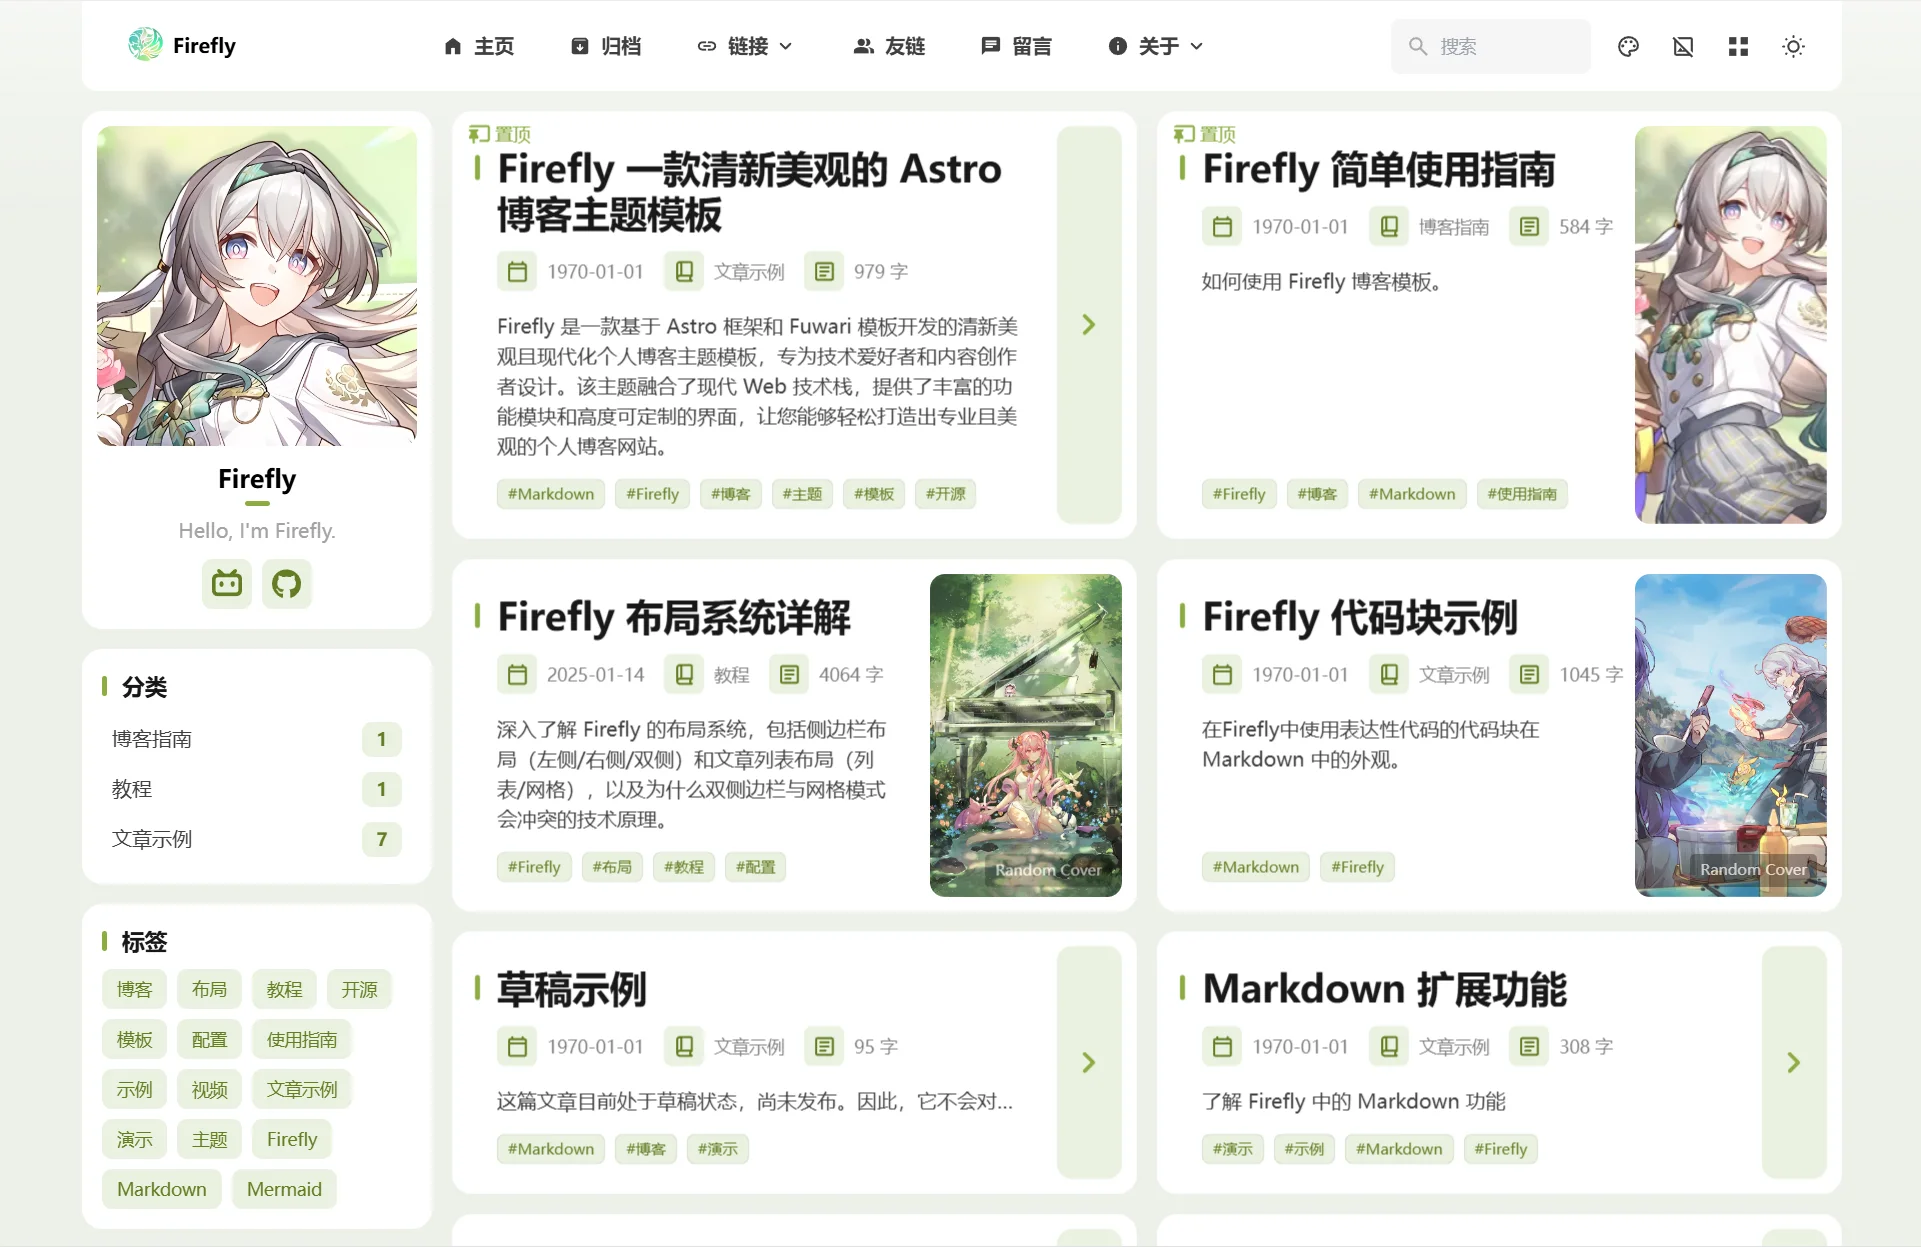
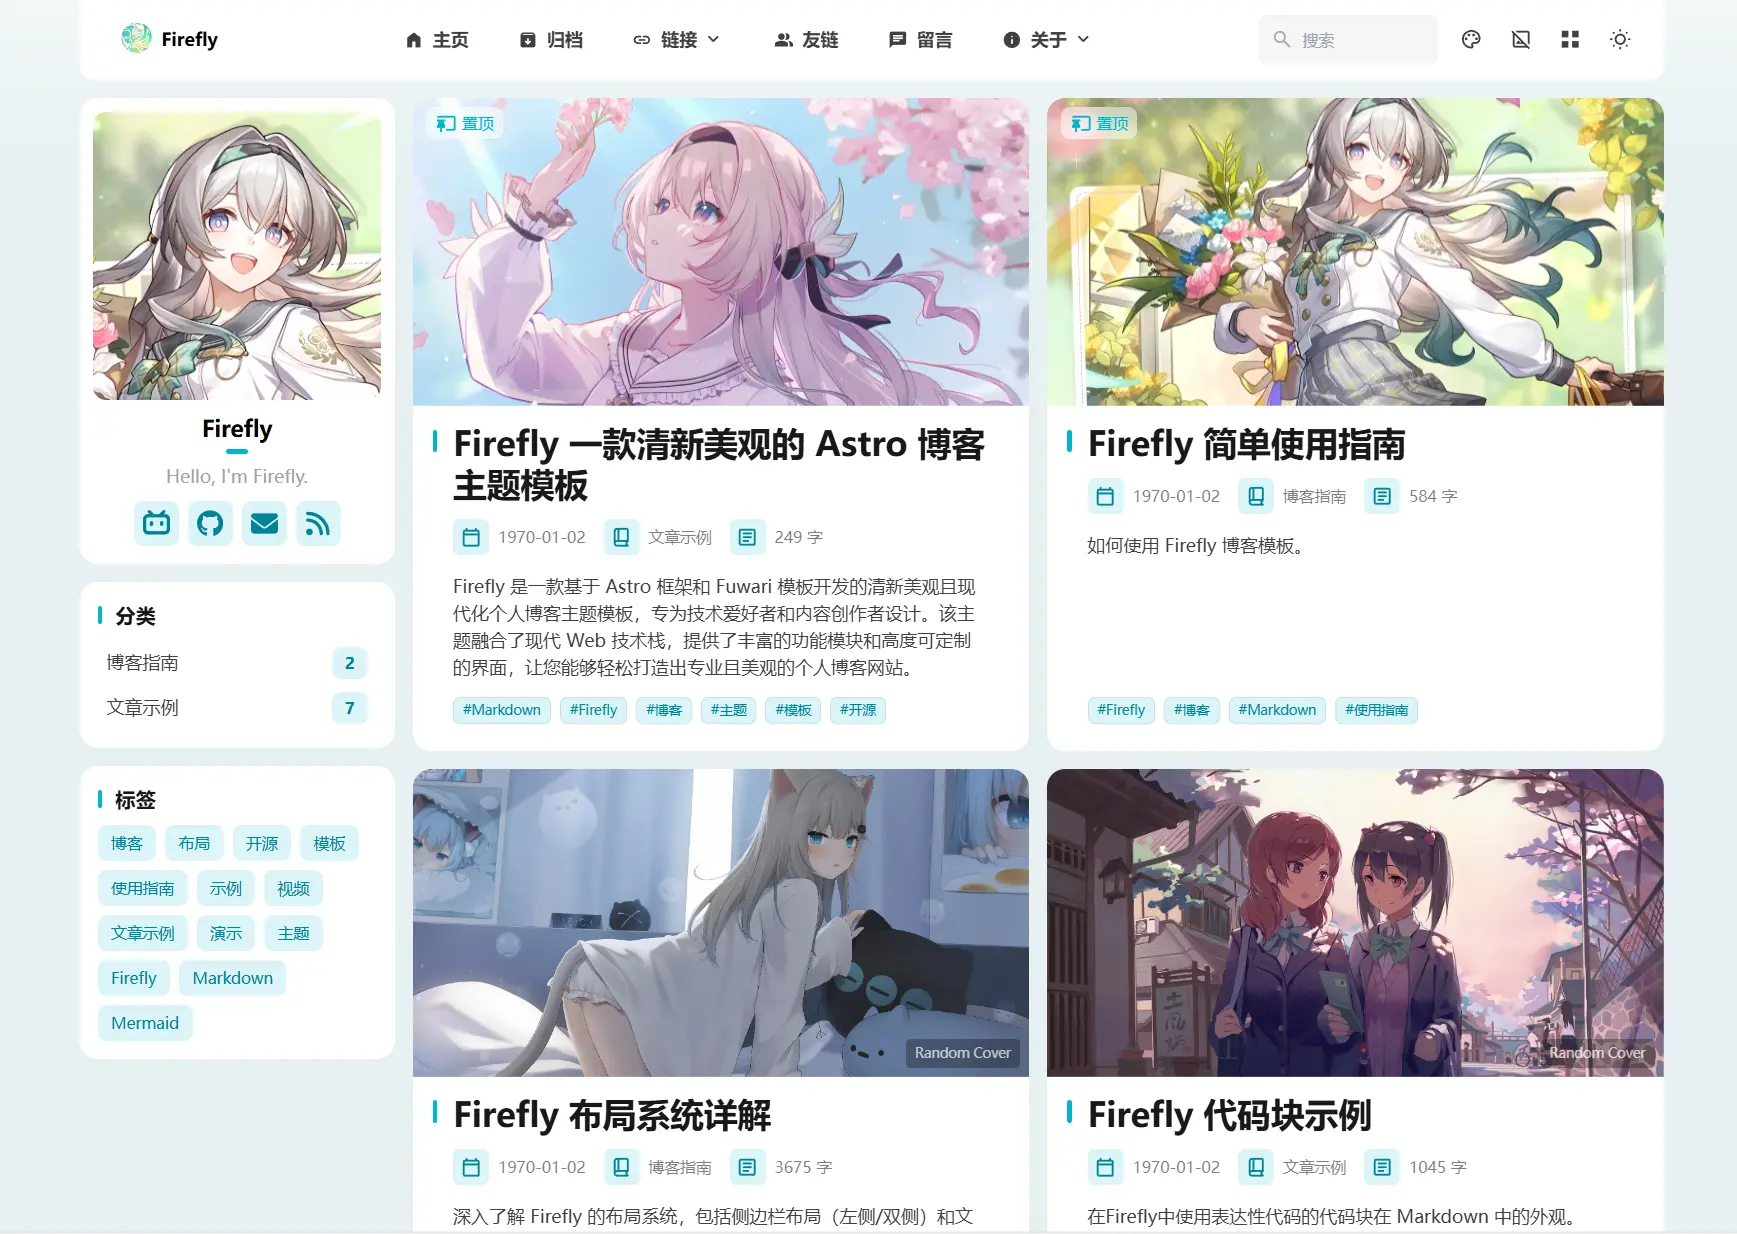
feat: optimize the cover of the grid layout

diff --git a/src/content/posts/firefly-layout-system.md b/src/content/posts/firefly-layout-system.md
@@ -184,12 +184,12 @@ export const siteConfig: SiteConfig = {
 - ✅ 节省垂直滚动空间
 - ✅ 现代化的瀑布流风格
 - ✅ 适合文章数量多的博客
+- ✅ 视觉冲击力强，封面图吸引眼球
 
 #### 限制
 
 - ⚠ **不支持双侧边栏模式**
 - ⚠ 屏幕宽度 < 1200px 时自动切换为列表模式
-- ⚠ 封面图目前显示不全，视觉吸引力较弱，待优化
 
 #### 适用场景
 

diff --git a/docs/README.ru.md b/docs/README.ru.md
@@ -94,7 +94,6 @@
 ## 📝 Планы...
 
 - [ ] **Рефакторинг маскота Live2D**
-- [ ] **Оптимизация обложек статей в сеточном макете**
 - [ ] **Непрерывная оптимизация плавности анимации**
 - [ ] Больше функций в разработке...
 

diff --git a/docs/README.ja.md b/docs/README.ja.md
@@ -94,7 +94,6 @@
 ## 📝 予定...
 
 - [ ] **Live2Dマスコットのリファクタリング**
-- [ ] **グリッドレイアウトの記事カバーの最適化**
 - [ ] **アニメーションの滑らかさの継続的な最適化**
 - [ ] より多くの機能が継続的に改善中...
 

diff --git a/README.en.md b/README.en.md
@@ -94,7 +94,6 @@
 ## 📝 Planned...
 
 - [ ] **Refactor Live2D Mascot**
-- [ ] **Optimize Grid Layout Article Covers**
 - [ ] **Continuous Animation Smoothness Optimization**
 - [ ] More features in continuous development...
 

diff --git a/docs/README.zh-TW.md b/docs/README.zh-TW.md
@@ -94,7 +94,6 @@
 ## 📝計畫中...
 
 - [ ] **重構 Live2D 看板娘**
-- [ ] **優化網格版面配置的文章封面**
 - [ ] **持續優化動畫流暢度**
 - [ ] 更多功能持續完善中...
 

diff --git a/README.md b/README.md
@@ -94,7 +94,6 @@
 ## 📝计划中...
 
 - [ ] **重构 Live2D 看板娘**
-- [ ] **优化网格布局的文章封面**
 - [ ] **持续优化动画流畅度**
 - [ ] 更多功能持续完善中...
 
